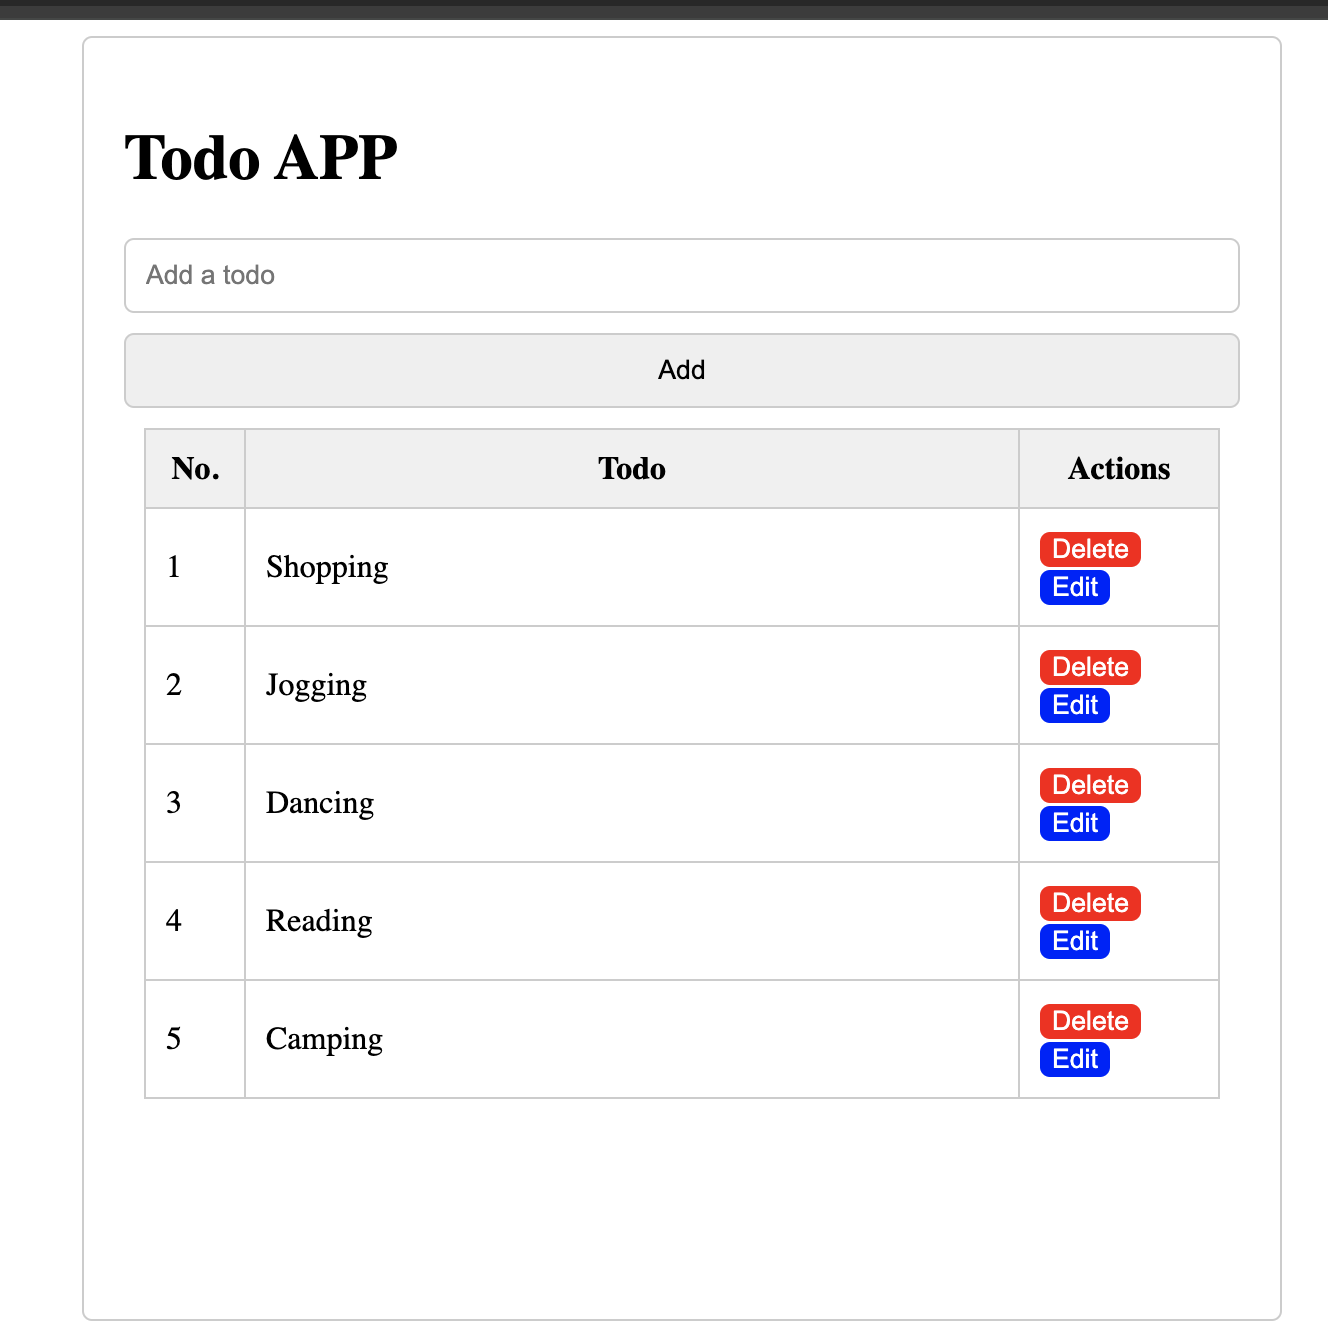
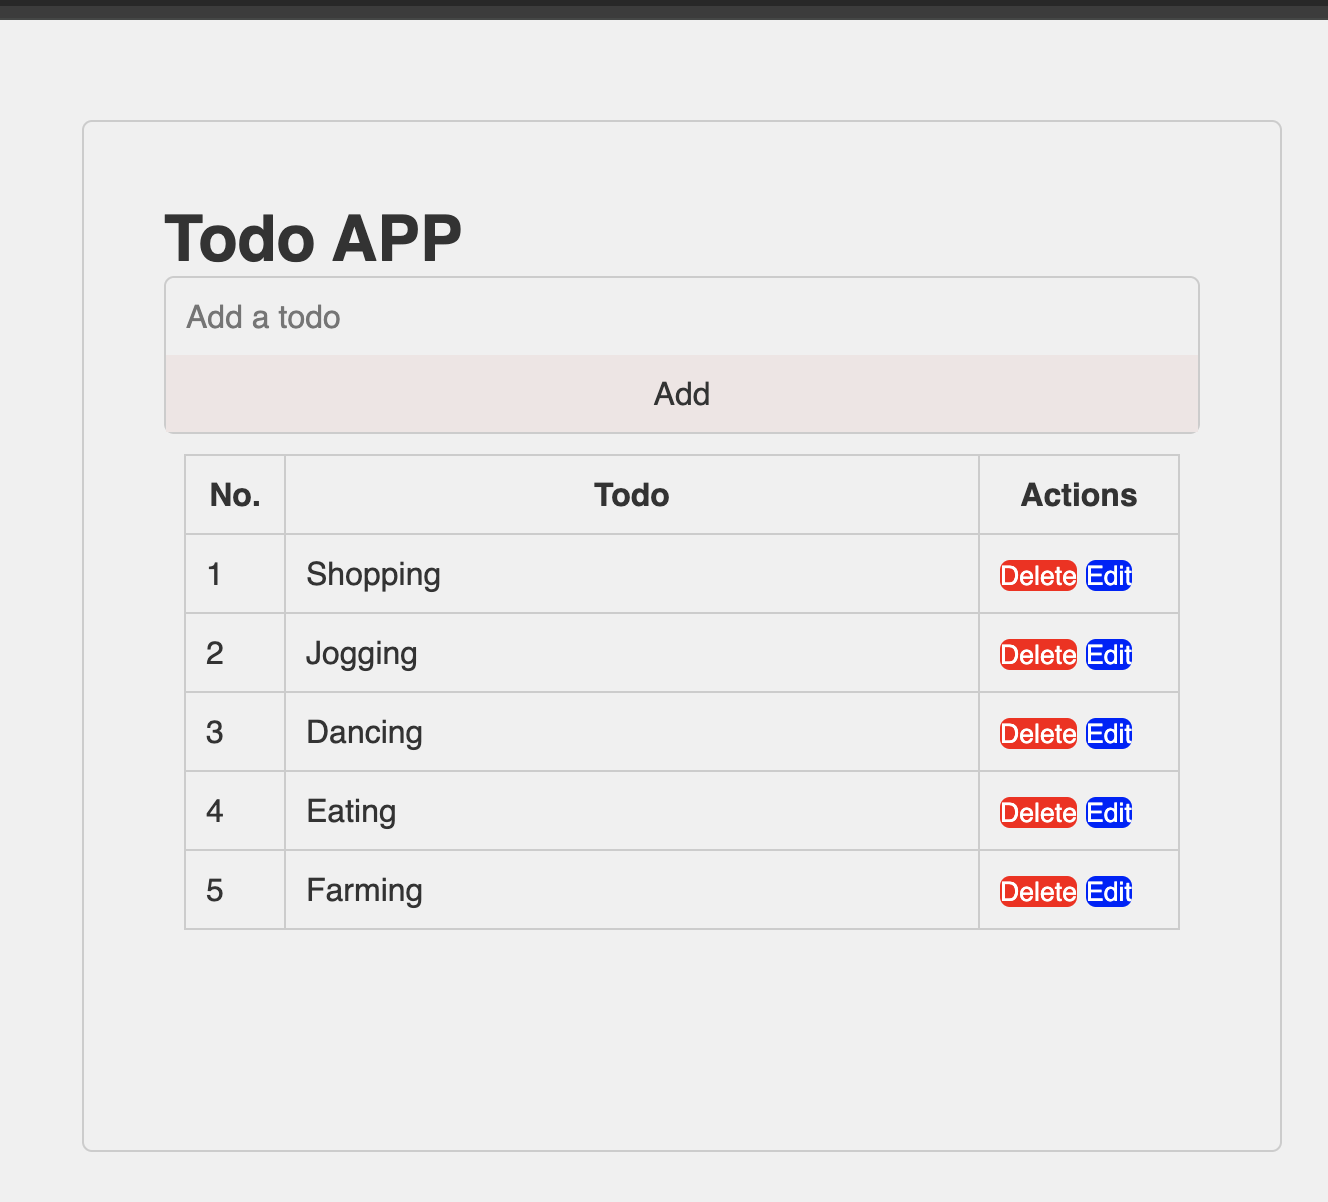
fixes

diff --git a/style.css b/style.css
@@ -1,12 +1,20 @@
 
 * {
     box-sizing: border-box;
+    margin: 0;
+    padding: 0;
+    font-family: 'Poppins', sans-serif;
+
+    color: #333;
+    background-color: #f0f0f0;
+
 }
 
 .container {
     width: 600px;
     margin: 0 auto;
-    padding: 20px;
+    margin-top: 50px;
+    padding: 40px;
     padding-bottom: 100px;
     border: 1px solid #ccc;
     border-radius: 5px;
@@ -16,7 +24,10 @@
 .todo-input-container {
     display: flex;
     flex-direction: column;
-    gap: 10px;
+    /* gap: 10px; */
+    border: 1px solid #ccc;
+    border-radius: 5px;
+    /* padding: 10px; */
 }
 
 .no-todos-yet {
@@ -26,7 +37,7 @@
     margin-top: 20px;
     margin-bottom: 20px;
     color: #585151;
-    position: absolute;
+    position: relative;
     left: 50%;
     transform: translateX(-50%);
     width: 100%;
@@ -35,7 +46,8 @@
 .todo-input {
     width: 100%;
     padding: 10px;
-    border: 1px solid #ccc;
+    font-size: 16px;
+    border: none;
     border-radius: 5px;
 }
 
@@ -50,8 +62,10 @@
 .todo-button {
     width: 100%;
     padding: 10px;
-    border: 1px solid #ccc;
-    border-radius: 5px;
+    font-size: 16px;
+    border: none;
+    background-color: #eee4e4;
+    
 }
 
 .todo-button:hover {
